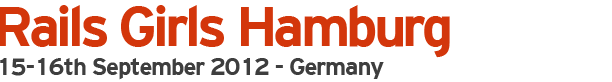
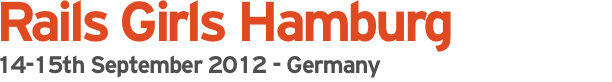
fixing dates for hamburg, adding hamburg to index and events

Changed region(s): [[0.0, 0.0, 0.7451, 0.7073], [0.0, 0.6829, 0.652, 0.9756]]

diff --git a/hamburg.html b/hamburg.html
@@ -74,7 +74,7 @@ Steps to show on site
         <p> Moin!</p><p>
           Rails Girls comes to Hamburg! During the free two-day workshop we'll dive into the magical world of Ruby on Rails. </p>
 <p>
-          Apply now! <a href="http://railsgirls.wufoo.eu/forms/apply-to-rails-girls-hamburg-14-15-september/">Applications</a> are open until the 1st of September.</p>
+          Apply now! <a href="http://railsgirls.wufoo.eu/forms/apply-to-rails-girls-hamburg-14-15-september/">Applications</a> are open until the 29th of August.</p>
 
 
 <!--  Update the sharing texts.-->
@@ -237,9 +237,9 @@ Steps to show on site
         
         <h3>Information</h3>
             <p>
-              <p><strong><a href="http://railsgirls.wufoo.com/forms/apply-to-rails-girls-cologne-2828-september/">Applications</a> close:</strong> September 1st<br/>
-                <strong>Acceptances informed:</strong>September 7th</p>
-              <strong>Location:</strong> <a href="http://hamburg.betahaus.de/">Betahaus Hamburg</a>, <a href="https://maps.google.de/maps?q=betahaus+hamburg&hl=de&sll=51.151786,10.415039&sspn=22.231972,57.084961&hq=betahaus&hnear=Hamburg&t=h&z=14">Lerchenstraße 28a / Eingang Schilleroper, 22767 Hamburg</a>
+              <p><strong><a href="http://railsgirls.wufoo.com/forms/apply-to-rails-girls-cologne-2828-september/">Applications</a> close:</strong> August 29th<br/>
+                <strong>Acceptances informed:</strong>September 1st</p>
+              <strong>Location:</strong> <a href="http://hamburg.betahaus.de/">Betahaus Hamburg</a>, <a href="https://maps.google.de/maps?q=betahaus+hamburg&amp;hl=de&amp;sll=51.151786,10.415039&amp;sspn=22.231972,57.084961&amp;hq=betahaus&amp;hnear=Hamburg&amp;t=h&amp;z=14">Lerchenstraße 28a / Eingang Schilleroper, 22767 Hamburg</a>
               
        
             </p>
@@ -251,16 +251,16 @@ Steps to show on site
       <h3>Partners</h3>
       
       <p>Rails Girls Hamburg is co-organized with our awesome partners.</p><p>
-         <p>Want to help? We're looking for partners & sponsors for the non-profit event! <a href="mailto:contact@railslove.com>">Email us</a>! </p>
-      <p>
+         <p>Want to help? We're looking for partners &amp; sponsors for the non-profit event! <a href="mailto:railsgirlshh@googlemail.com>">Email us</a>! </p>
+<!--       <p>
         <a href="http://mindmatters.de" style="float:right; margin:0 0 0; border:0;"><img src="http://mindmatters.de/images/logo.png" alt="mindmatters"></a>
         <a href="http://mindmatters.de">mindmatters</a> entwickelt Software für Menschen, die das Internet benutzen.
       </p>
       <p>
         <a href="http://digitalpioneers.de/" style="float:right; margin:0 0 0; border:0;"><img src="" alt="digital | pioneers"></a>
-        <a href="http://digitalpioneers.de/">digital | pioneers</a> [TODO: Florian]
+        <a href="http://digitalpioneers.de/">digital | pioneers</a> ...
       </p>
-
+ -->
      <hr/>
      <h3>FAQ</h3>
       <p><strong>How much does the workshop cost?</strong>
@@ -276,7 +276,7 @@ Steps to show on site
        </p>
        <p>
          <strong>I know how to program - How can I help?</strong>
-         We’re also looking for people to be coaches. We’ll have a two-three hour workshop before the event to walk you through the curriculum. <a href="mailto:liane@railslove.com>">Email us</a>
+         We’re also looking for people to be coaches. We’ll have a two-three hour workshop before the event to walk you through the curriculum. <a href="mailto:railsgirlshh@googlemail.com>">Email us</a>
        </p>
       
         
@@ -292,6 +292,10 @@ Steps to show on site
 Irina Balko, organizer
 <small>@iRinaI3alko</small>
 </a>
+        <a href="https://twitter.com/uygar_gg" class="grid_3">
+Uygar Galbis Gomez, organizer
+<small>@uygar_gg</small>
+</a>
 
         <a href="https://twitter.com/weidenfreak" class="grid_3">
 Meike Wiemann, organizer
@@ -303,9 +307,9 @@ Fabian Fabian, organizer
 <small>@filtercake</small>
 </a>
 
-        <a href="https://twitter.com/halfbyte" class="grid_3">
+        <a href="https://twitter.com/La_Lynne" class="grid_3">
 Lynne Hunter, organizer
-<small>@halfbyte</small>
+<small>@La_Lynne</small>
 </a>
         
         <a href="https://twitter.com/halfbyte" class="grid_3">

diff --git a/index.html b/index.html
@@ -100,6 +100,10 @@ metrify.fire("page");
                   <img src="./images/railsgirls-sq.png" width="50">
                   <h3>Washington, DC, USA</br><span> 14-15 September 2012</span></h3>
               </a>
+              <a href="./hamburg.html" class="upcoming">
+                    <img src="./images/railsgirls-sq.png" width="50">
+                  <h3>Hamburg, Germany</br><span> 14-15 September 2012</span></h3>
+              </a>
 
                      <a href="./cologne.html" class="upcoming">
                           <img src="./images/railsgirls-sq.png" width="50">
@@ -113,7 +117,6 @@ metrify.fire("page");
               <h5 class="muted">Stockholm, 31st August 2012</h5>
               <h5 class="muted">Munich, 7-8th September 2012 </h5>
               <h5 class="muted">Tallinn, 14-15th September 2012</h5>
-              <h5 class="muted">Hamburg, 15-16th September 2012 </h5>
               <h5 class="muted">Warsaw, September 2012</h5>
               <h5 class="muted">Helsinki, 19th September 2012</h5>
               <h5 class="muted">Recife 21st September 2012</h5>

diff --git a/events.html b/events.html
@@ -56,6 +56,9 @@
           <a href="./dc.html" class="omega event grid_4" style="background:url(images/ruby-100.png) 0px -40px no-repeat;">
               <h3>Washington, DC, USA <small>14-15 September 2012</small></h3>
           </a>
+          <a href="./hamburg.html" class="omega event grid_4" style="background:url(images/ruby-100.png) 100px 20px no-repeat;">
+              <h3>Hamburg, Germany <small>14-15 September 2012</small></h3>
+          </a>
 
            <a href="./cologne.html" class="omega event grid_4" style="background:url(images/rg-cologne.png) 0px -40px no-repeat;">
               <h3>Cologne, Germany <small>28. September 2012</small></h3>   
